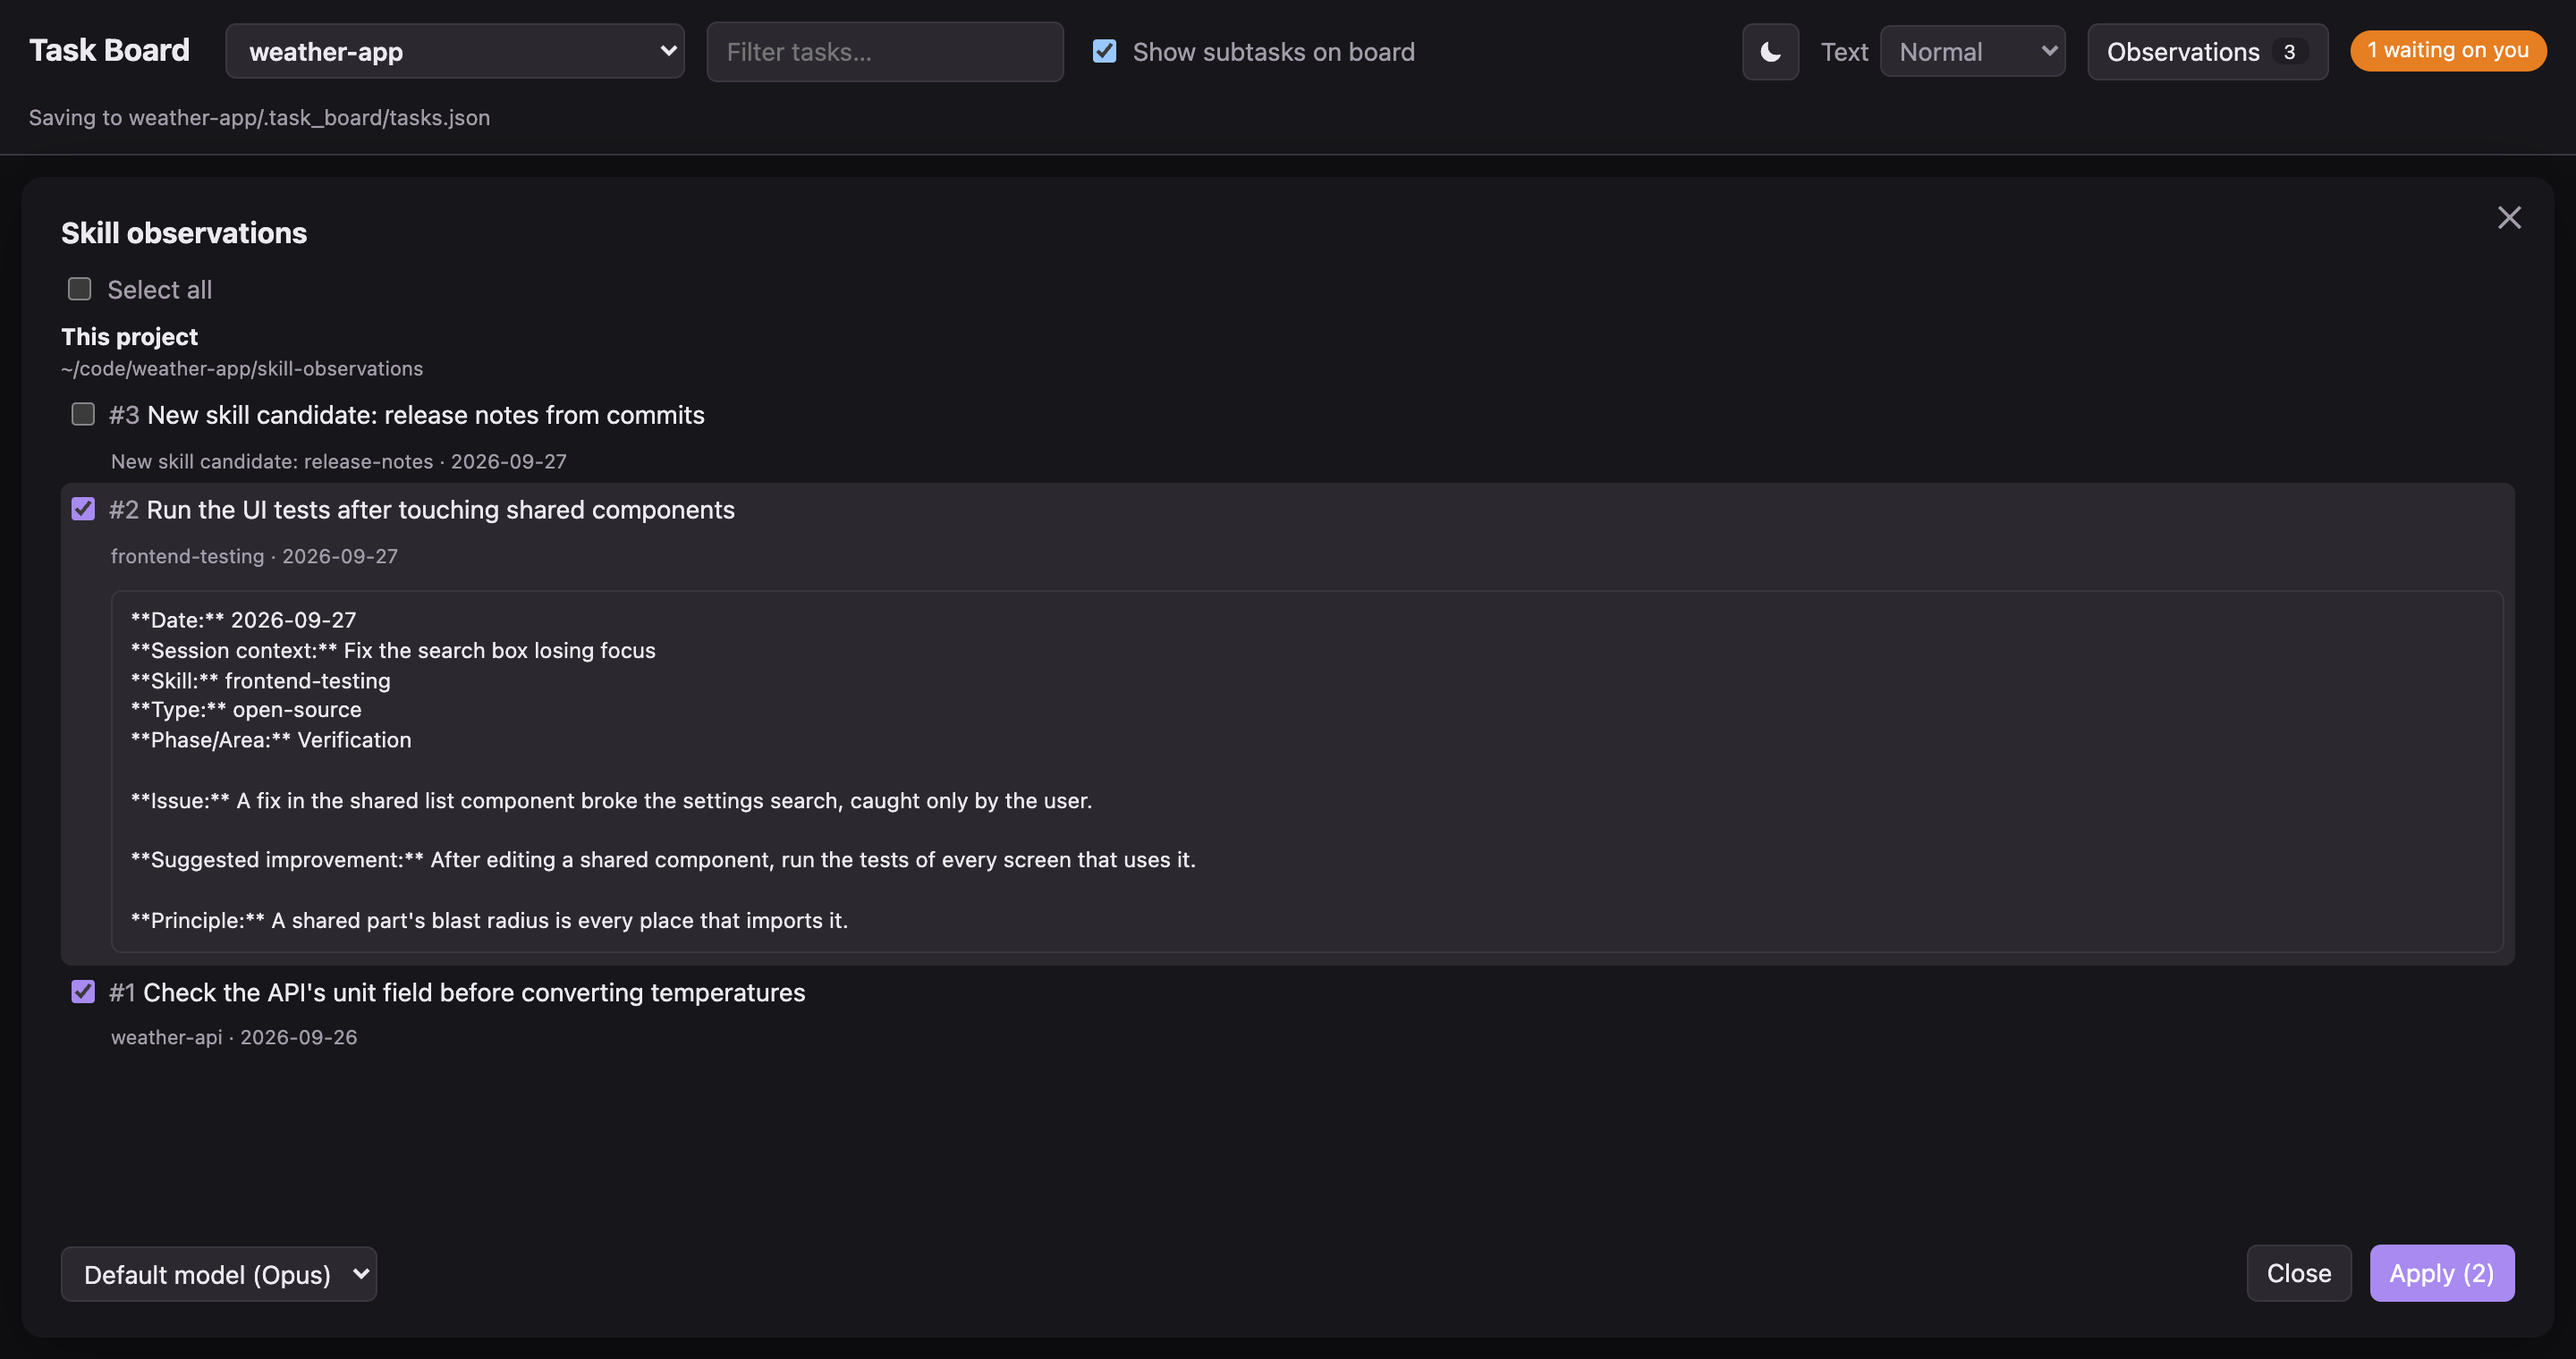
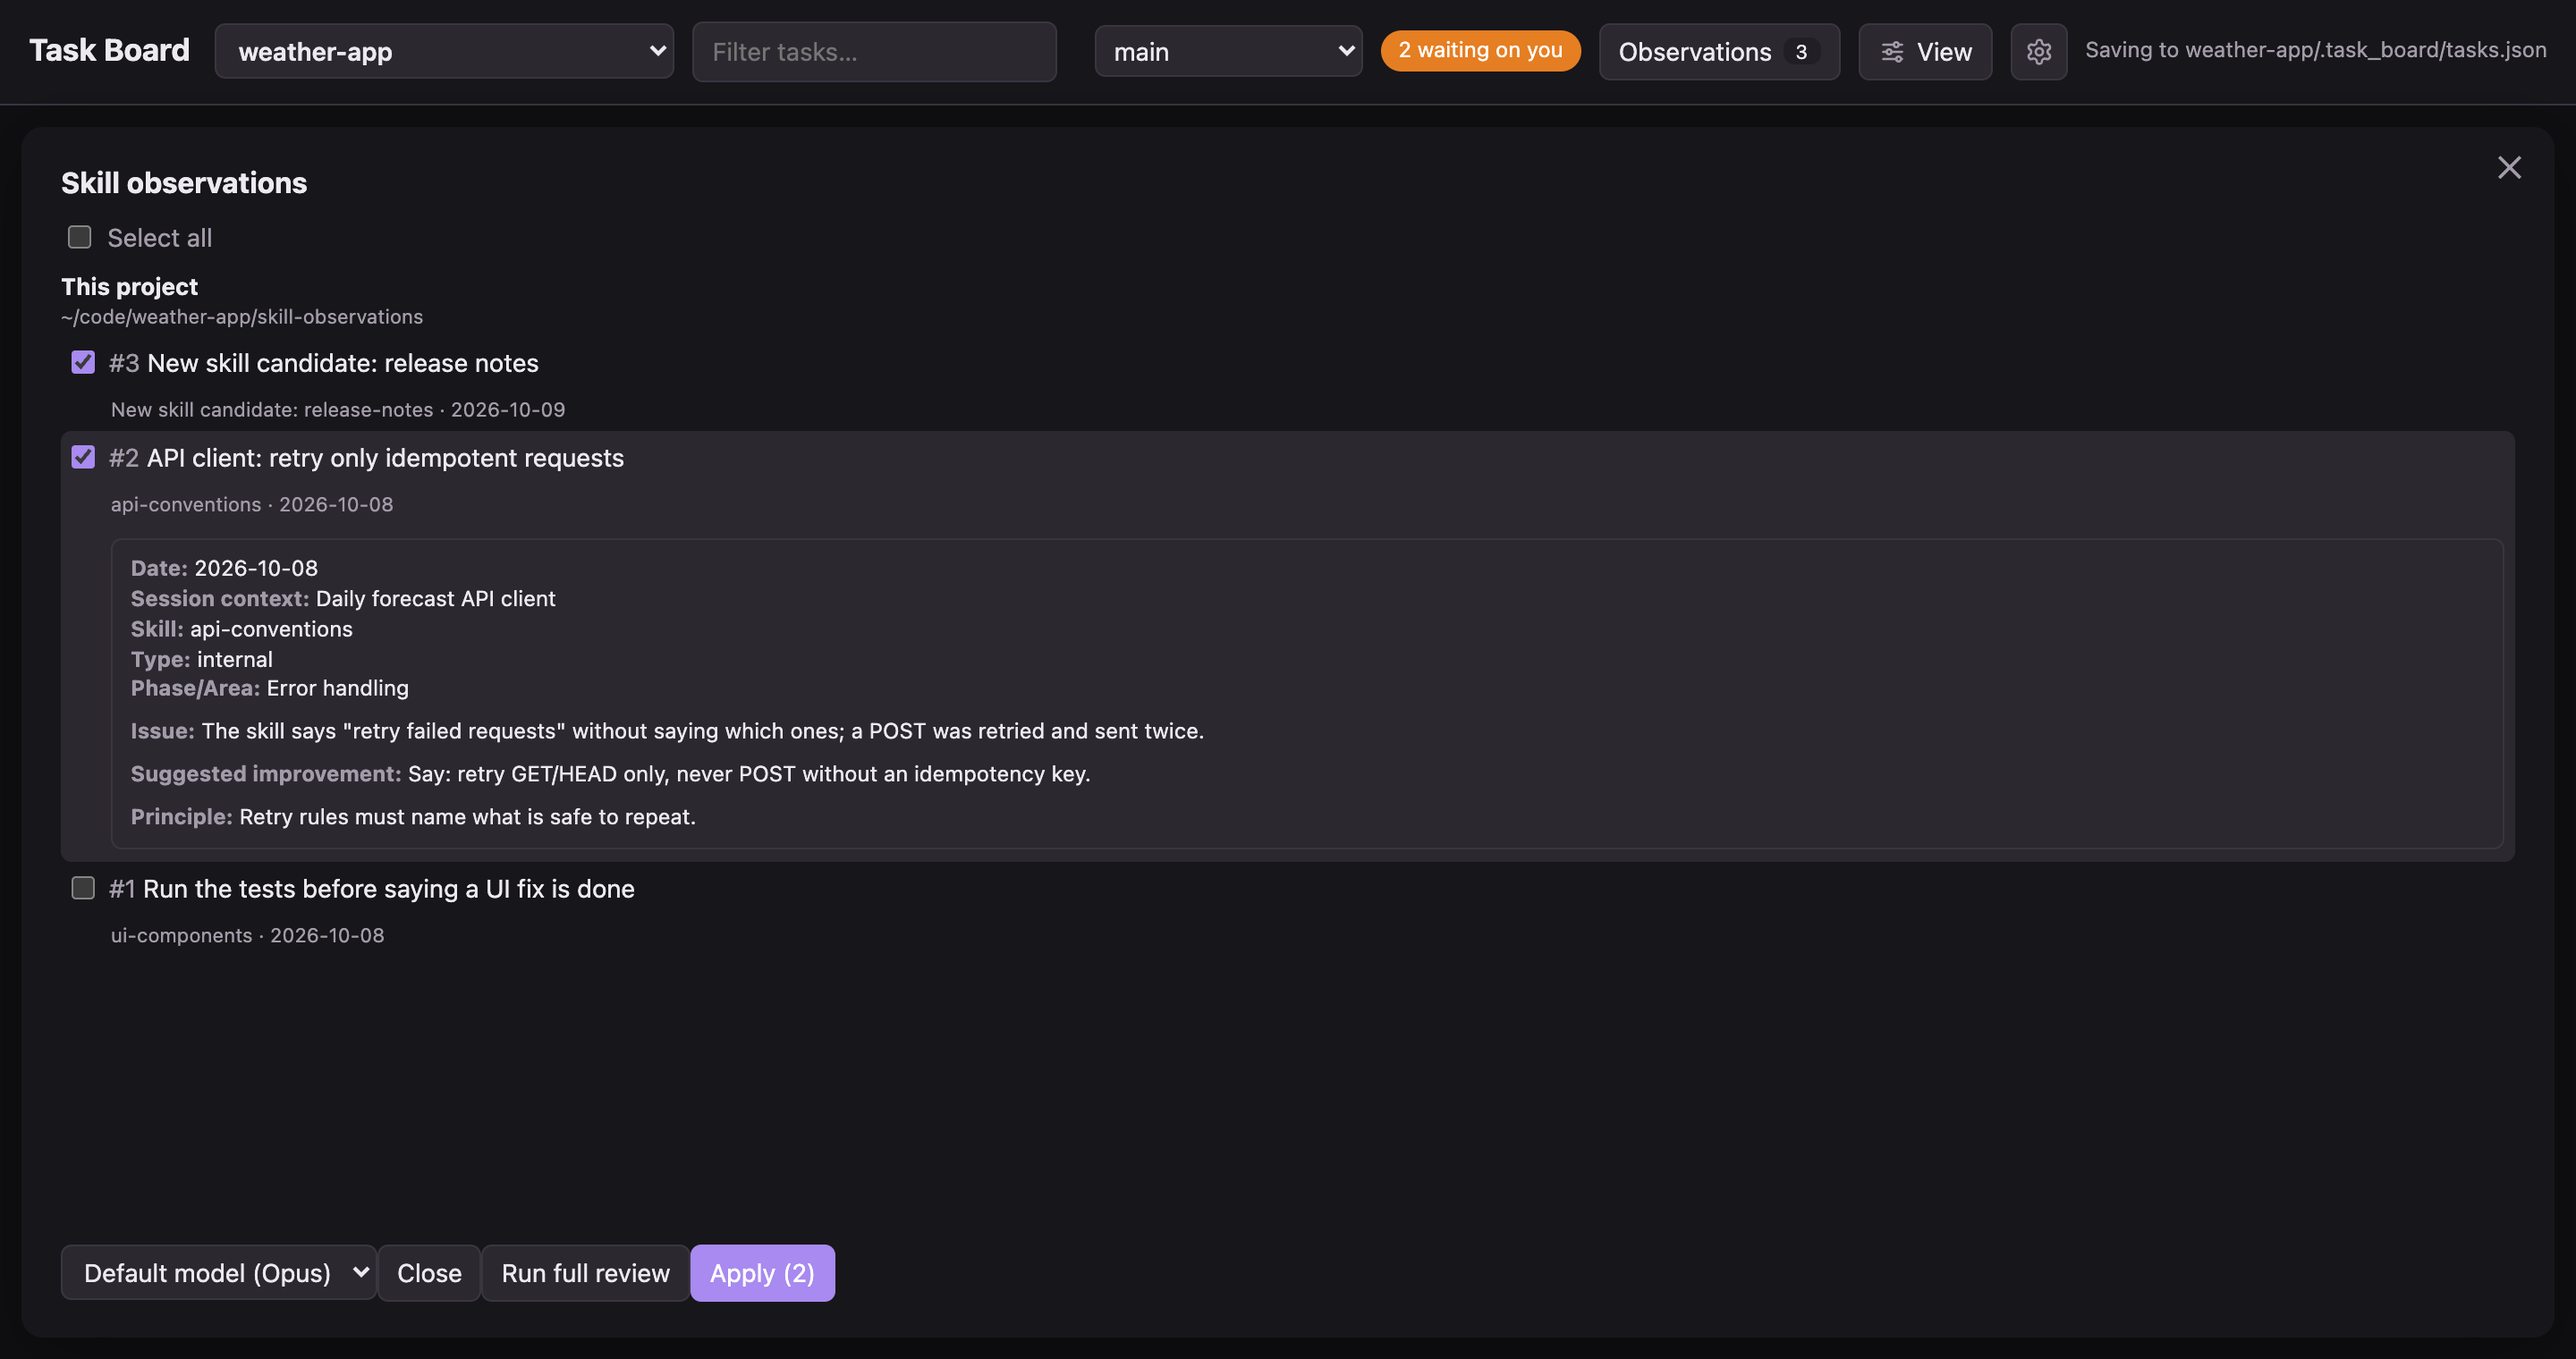
README: features since Sep 27 and fresh screenshots
Adds: the card panel (Next action box, fold-out rows, Summary / Changes /
Conversation / Images tabs), Allow / Allow always / Deny on permission
requests, the ctx chip, auto-restart after auto-mode stalls, Codex as a
backend (Requirements + Send to Claude), the done recap, the project menu
spinner, Run full review, and the View / gear / branch menu header.

Screenshots retaken from a demo board on the current UI (the old ones
predate the panel redesign); two new ones: permission.png, subagents.png.

diff --git a/README.md b/README.md
@@ -1,20 +1,26 @@
 # onemoretask
 
-A local kanban board that hands cards to Claude Code. Write a task, click **Send to Claude**,
-and the agent works on it in the background, posting its progress, questions and results
-back onto the card.
+A local kanban board that hands cards to Claude Code (or OpenAI's Codex). Write a task, click
+**Send to Claude**, and the agent works on it in the background, posting its progress, questions and
+results back onto the card.
 
-![The board: a task Claude splits across subagents, one waiting on you, one finished, one under code review](docs/screenshots/board.png)
+![The board: a task Claude splits across subagents, a question and a permission request waiting on you, a finished task, and one under code review](docs/screenshots/board.png)
 
-| Claude asks you a question | Claude reports it is done |
+| Claude asks you a question | Claude asks permission |
 |---|---|
-| ![A card with Claude's question and a reply box](docs/screenshots/question.png) | ![A card with Claude's progress, a note you sent while it worked, its final report, and the Review code button](docs/screenshots/finished.png) |
+| ![A card with Claude's question, a Reply in Conversation button and the reply box](docs/screenshots/question.png) | ![A card asking to run npm install, with Allow, Allow always and Deny buttons](docs/screenshots/permission.png) |
+
+| Claude is done: merge or review | Claude works with subagents |
+|---|---|
+| ![The Summary tab of a finished card: the result, its two commits, and Merge worktree to main, Review code and Run app in the Next action box](docs/screenshots/finished.png) | ![A running card with its Subagents list: one finished, two running, each with its context size, time and skills](docs/screenshots/subagents.png) |
 
 ## Requirements
 
 - macOS, Linux or Windows
 - Python 3.7 or newer, and `git`
 - [Claude Code](https://claude.com/claude-code) (the `claude` command), for Send to Claude
+- Optional: OpenAI's [Codex CLI](https://github.com/openai/codex) (the `codex` command), to send a task
+  or a code review to an OpenAI model
 
 Desktop notifications are macOS only. The **Open folder…** dialog works on macOS and Windows;
 on Linux, paste the folder's path. Everything else works the same on all three.
@@ -103,10 +109,11 @@ the git repo you run it from.
    folder. Each project keeps its board in `<project>/.task_board/`. The board
    stays out of git: tasks are not committed. A project with work
    waiting on you shows `*` and a count in the menu, e.g. `weather-app * (2)`: questions, plus
-   finished cards you have not opened yet.
+   finished cards you have not opened yet. A turning arrow marks projects where Claude is working.
 2. **Add a task.** Give it a title, notes, subtasks. You can paste images into the notes.
 3. **Send to Claude.** Pick a model (or leave the default) and send. A background Claude
-   session starts in the project folder with the task as its prompt. Tick
+   session starts in the project folder with the task as its prompt. Pick an OpenAI model and
+   the task runs in Codex instead; the card works the same. Tick
    **Divide in subtasks / use subagents** to let it split the work; Claude picks the skills each
    part needs and tells that subagent to load them first. The card then lists each
    subagent (running, finished or stopped), what a running one is doing now and the skills it used.
@@ -119,8 +126,19 @@ the git repo you run it from.
    reorder it inside its column (a subtask stays among its siblings); it can't be dragged to
    another column. To move one by hand, use the Status menu in its panel. Columns drag to reorder.
    A **cache** chip counts down the session's prompt cache. Reply before it runs out
-   ("cache cold") and the reply reads the context from cache, at a lower price.
-5. **Reply on the card.** Answer questions or ask for changes. The reply resumes the same
+   ("cache cold") and the reply reads the context from cache, at a lower price. A **ctx** chip
+   (e.g. `38% ctx`) shows how full the session's context is; it turns orange, then red, near the limit.
+   If Claude stops because auto mode's safety check keeps failing, the board starts it again after a minute.
+5. **Open the card.** The left side holds the status, the priority and a **Next action** box that
+   says what to do now (wait, answer, merge, review, mark done) with the button for it. Fold-out rows
+   under it show the subtasks, the subagents, the skills used, the context size, the tokens used
+   (subagents included) and the exact prompt. The right side has four tabs: **Summary** (Claude's
+   result, its commits and whether they are merged), **Changes** (files and commits; click one to see
+   its diff), **Conversation** (every message, with the reply box) and **Images**.
+6. **Answer permission requests.** When Claude stops to ask before running something, the card says
+   "Claude asks permission" with the command. Click **Allow**, **Allow always** or **Deny** on the card;
+   the board answers the prompt in the session for you (macOS and Linux).
+7. **Reply on the card.** Answer questions or ask for changes. The reply resumes the same
    session. You can also write while Claude is still working, to add information or change
    course. That message is a **note**. The board types it straight into the running
    session (`claude attach`, like typing in Claude Code yourself), so Claude reads it as
@@ -128,7 +146,7 @@ the git repo you run it from.
    once it is in. If a permission prompt is on screen, or on Windows, a hook the board
    installs on each session (`inbox.py`) hands it over after the current step instead. Claude answers in the
    language you wrote in, even if the project is in another one.
-6. **Review the code.** A finished card in the Review column has a **Review code** button
+8. **Review the code.** A finished card in the Review column has a **Review code** button
    once the task made a commit (a Claude message on the card names its sha). An **Answer only**
    card gets it only after a reply had Claude go ahead and commit.
    It starts a fresh Claude session that finds the task's commits, runs the `commit-review`
@@ -141,6 +159,9 @@ the git repo you run it from.
    findings. When the other agent reviewed (Codex on Claude's work, or the reverse),
    **Send findings to Claude** (or Codex) hands them back to the session that did the work, with
    your reply box text as the word on which to fix.
+9. **Finish.** **Mark as done** (or **Move to done**) puts the card in Done. Once its session is idle,
+   Claude writes a short recap on the card (what was decided, why, how, what came out) and the board
+   removes the session. A later reply on the card starts a fresh session from that recap.
 
 ### Use a worktree
 
@@ -208,7 +229,16 @@ a step that kept failing, a workflow worth keeping. Every session the board star
 
 ![The Observations window: two observations ticked, one opened to read it](docs/screenshots/observations.png)
 
-The ◐ button in the header switches the theme: System (follows your computer), Light, or Dark.
+**Run full review** in the same window makes a card where Claude checks every open observation against
+your skills and asks you on the card which changes to make.
+
+### Header
+
+- **View**: theme (System, Light or Dark), text size, and whether subtasks show on the board.
+- The gear button: project settings and the **Changelog**, a plain-words list of what changed in the board.
+- The branch menu (e.g. `main`) shows which copy of the board app you are running. It turns orange on a
+  task's worktree; pick another copy to jump to it.
+- **Update** (see [Update](#update)) and a count of cards waiting on you.
 
 To see a session in the terminal: `claude agents` lists them and `claude attach <id>` opens one.
 
